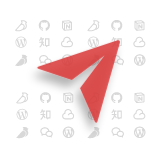
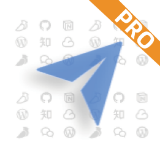
feat: 更新图标和预览图

diff --git a/README.md b/README.md
@@ -5,3 +5,9 @@
 ![](./icon.png)
 
 An user-centric, extensible, cross-platform publishing tool for publishing articles from siyuan-note to platforms like Yuque etc.
+
+> This project is in continuous development, will release in 2 to 3 months. Await with anticipation...
+
+## Contact me
+
+[youweics@163.com](mailto:youweics@163.com)

diff --git a/README_zh_CN.md b/README_zh_CN.md
@@ -5,3 +5,9 @@
 ![](./icon.png)
 
 用户体验优先、可扩展、多平台的思源笔记发布工具
+
+> 持续开发中，预计 2～3 个月之后发布，敬请期待...
+
+## 联系方式
+
+[youweics@163.com](mailto:youweics@163.com)
